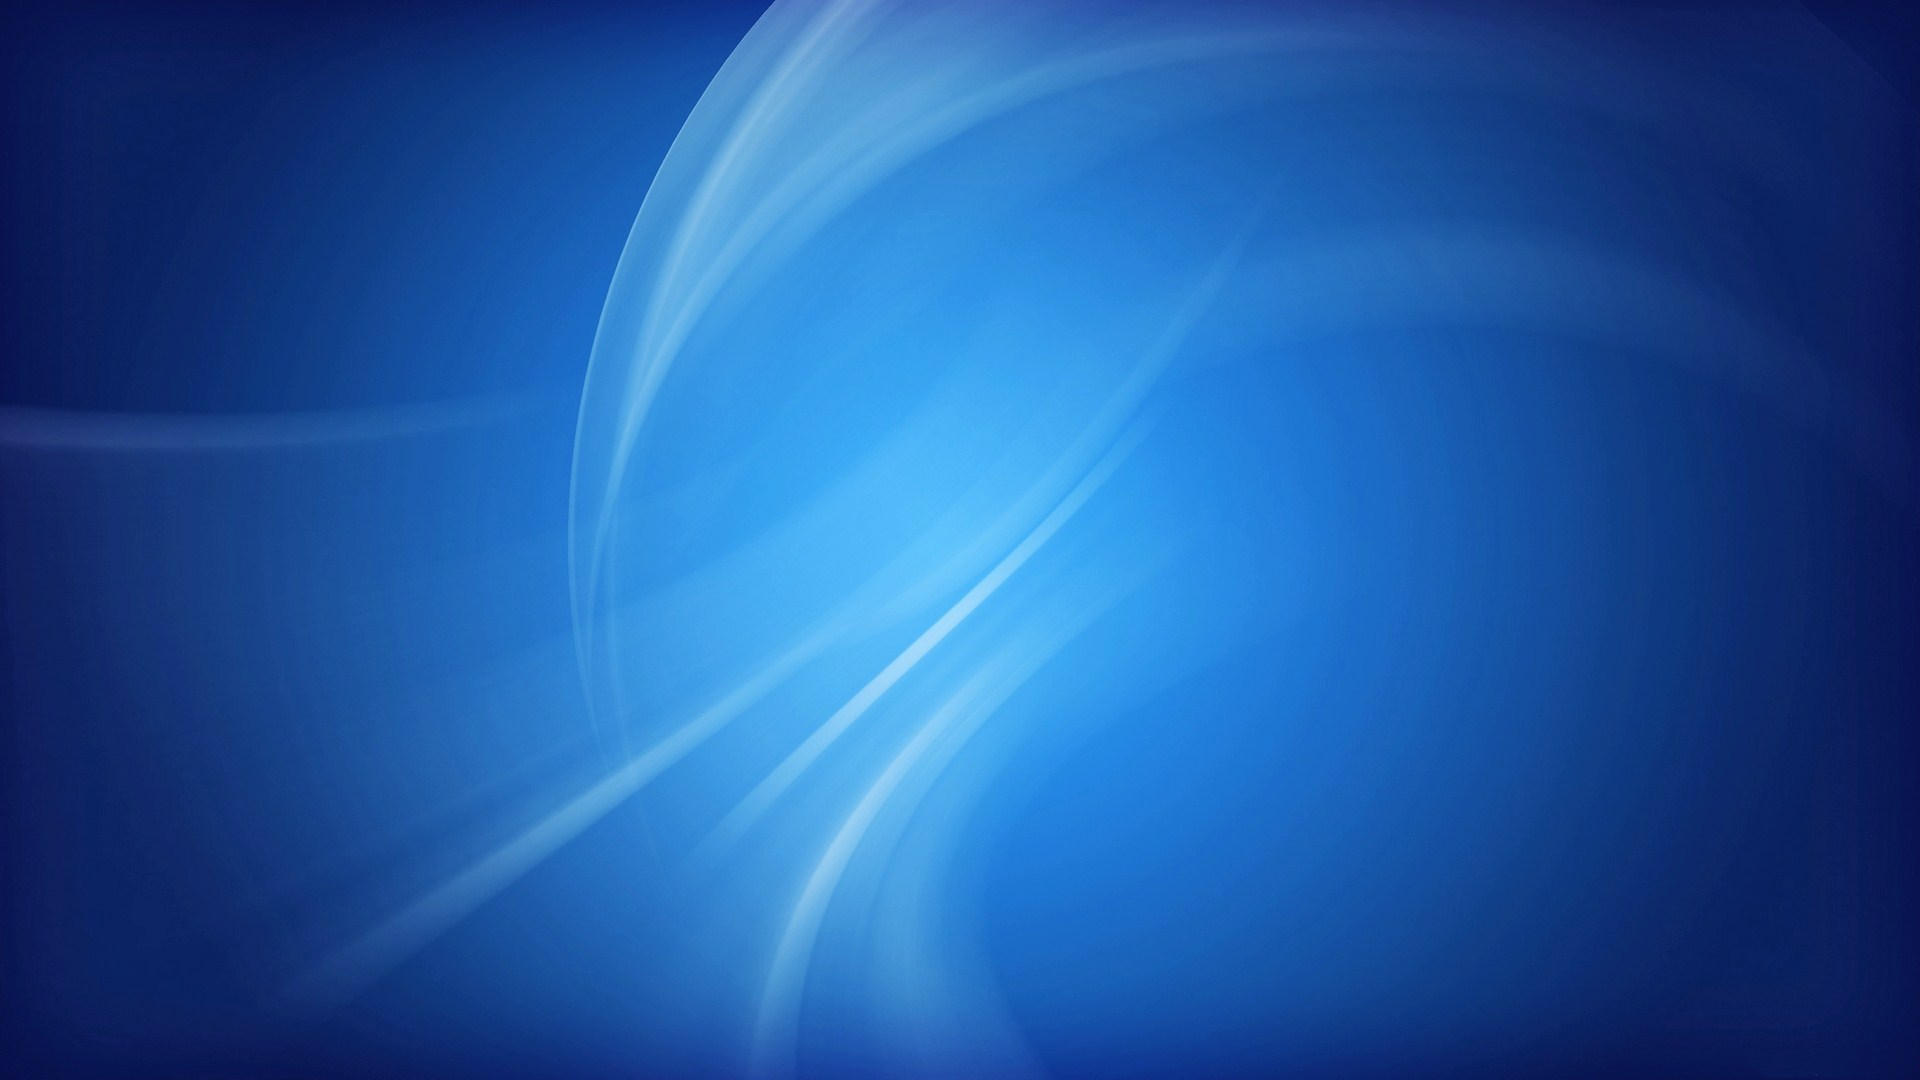
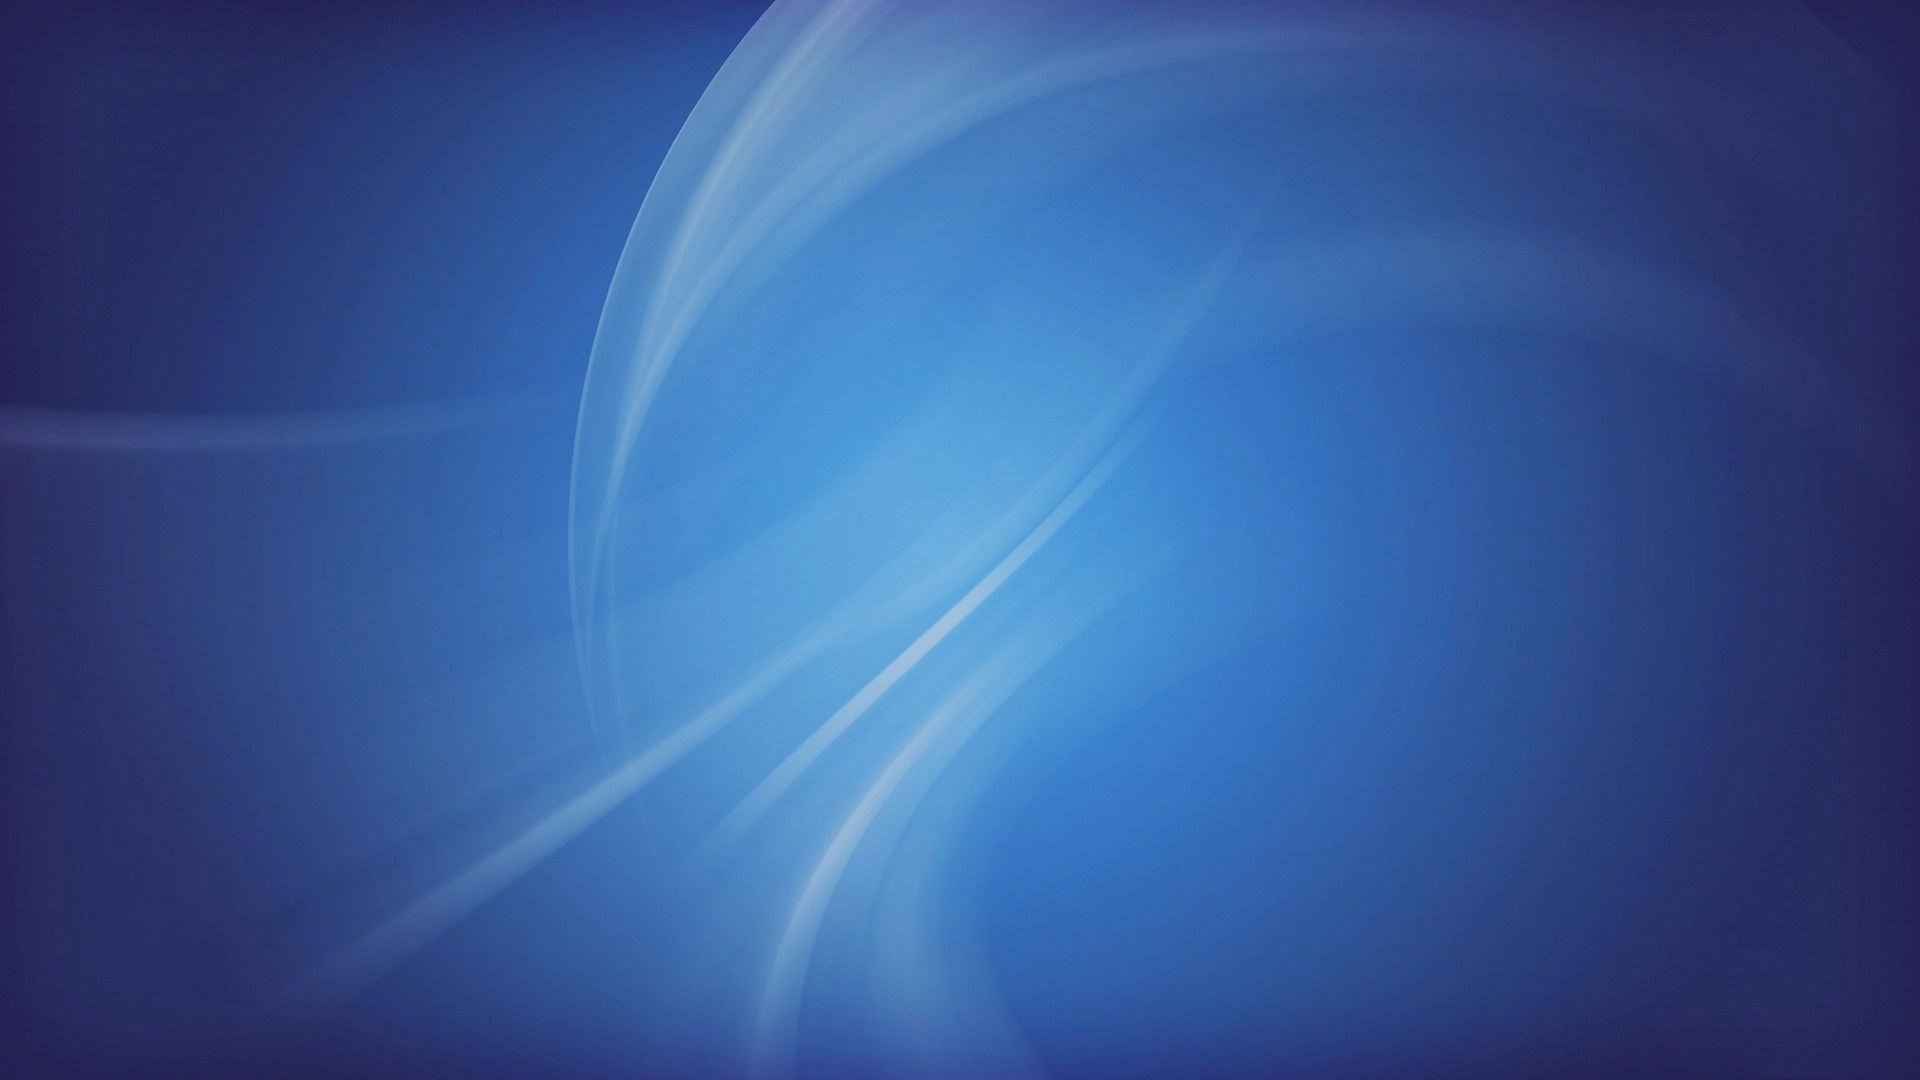
test test

diff --git a/client/css/2palme.css b/client/css/2palme.css
@@ -1,9 +1,9 @@
 .radial {
-/*    background-size: cover;
-    background-image: url('/common/img/bg1.png');
+    background-size: cover;
+    background-image: url('/common/img/bg1.jpg');
     background-position-y: -2px;
     background-position-x: -12px;
-    */
+    
     overflow: hidden;
     /*cursor: url("/common/img/up.png") 0 32, default !important;*/
 }
@@ -29,4 +29,18 @@ color: white !important;
 .notizia{
 width: 85% !important;
 float: right;
+}
+.scroll_text > * {
+font-size: 35px;
+}
+.scroll_text {
+    font-family: "Tahoma", Geneva, sans-serif;
+    font-size: 35px;
+    list-style-type: none;
+    text-align: left;
+    margin-top: 15px;
+    line-height: 1.5;
+    list-style-type: square;
+    color: darkblue;
+    padding: 5px;
 }

diff --git a/2palme/index.html b/2palme/index.html
@@ -196,14 +196,15 @@
                     function(){ 
                         location.reload(); 
                     }, time);
-        }(1625 * 1000));
+        }(60*60*6 * 1000));
         
     </script>
     <script type="text/javascript">
-
+/*
 $(function() {
     var galleryUrl = "http://www.di-vision.org/2palme/venobox/";
     var timeoutId;
+    
     $("#gallerySpan").hover(function() {
         
         $('body').addClass('waitcursor');
@@ -225,7 +226,7 @@ $(function() {
         }
     });
 });
-        
+*/
     </script>
     <!-- SET USERID VAL -->
     <div id="userID" style="display: none;">2palme</div>
